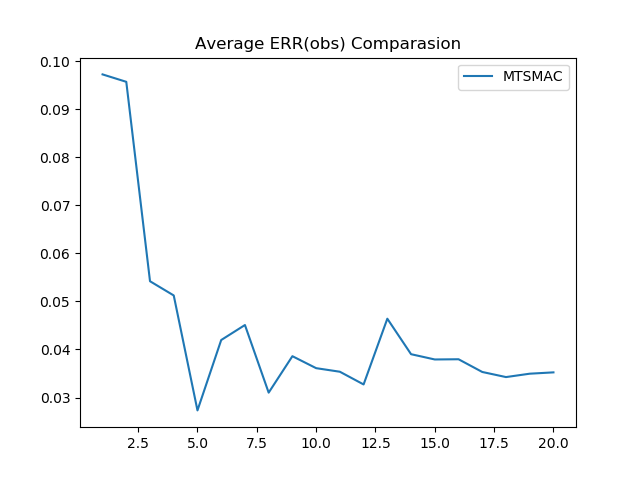
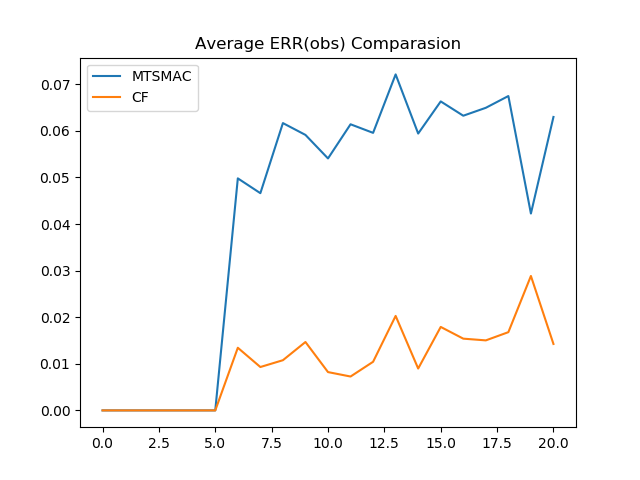
update

diff --git a/examples/experiments/analyse/prediction_comparison.py b/examples/experiments/analyse/prediction_comparison.py
@@ -26,8 +26,12 @@ import matplotlib.pyplot as plt
 
 # pylint:disable=import-error
 from nni.mtsmac_advisor.predictor import Predictor
+from nni.curvefitting_assessor.model_factory import CurveModel
+
 from nni.mtsmac_advisor.test.util import create_fake_data_simple, create_fake_data_mnist, get_obs
 from nni.mtsmac_advisor.test.util import create_fake_data_expdacay, create_fake_data_expdacay_diff_length
+
+
 
 
 PATH = './examples/experiments'
@@ -37,39 +41,117 @@ PATH = './examples/experiments'
 # pylint:disable=invalid-name
 
 
-def plot_prediction_comp():
-    X, y = create_fake_data_mnist()
-
-    len_completed = [21, 21, 21] # size 3
-
-    len_half = [np.random.randint(1, 21) for _ in range(30)]
-    len_y = len_completed + len_half
-
-    size_obs = len(len_y)
-    X_obs, y_obs = get_obs(X, y, size_obs, len_y)
+def get_err_abs_mtsmac(X, y, len_y):
+    ''' predicted err of old points '''
+    X_obs, y_obs = get_obs(X, y, len_y)
 
     predictor = Predictor(multi_task=True)
     predictor.fit(X_obs, y_obs)
-    mean, std = predictor.predict(X)
+    mean, _ = predictor.predict(X)
 
-    # predicted err of old points
     err_abs = [0] * 21
     for t in range(21):
         count_t = 0
-        for j in range(len(len_completed), len(len_y)):
-            if len_y[j] <= t:
+        for j, len_y_j in enumerate(len_y):
+            if len_y_j <= t:
                 err_abs[t] += abs(y[j][t]  - mean[j][t])
                 count_t += 1
         if count_t:
             err_abs[t] /= count_t
-    plt.plot(range(1, 21), err_abs[1:], label='MTSMAC')
+
+    return err_abs
+
+
+def get_err_abs_cf(X, y, len_y):
+    _, y_obs = get_obs(X, y, len_y)
+
+    err_abs = [0] * 21
+    for t in range(21):
+        count_t = 0
+        for j, len_y_j in enumerate(len_y):
+            if len_y_j <= t:
+                print("t:", t)
+                print("y_obs[{}]:\n".format(j), y_obs[j])
+                curvemodel = CurveModel(target_pos=t)
+                predict_y = curvemodel.predict(trial_history=y_obs[j])
+
+                del curvemodel
+                print("predict_y: ", predict_y)
+                err_abs[t] += abs(y[j][t]  - predict_y)
+                count_t += 1
+        if count_t:
+            err_abs[t] /= count_t
+        print("err_abs", err_abs[t])
+
+    return err_abs
+
+def test():
+    '''
+    X, y = create_fake_data_mnist(metric="err_rate")
+    len_y = [21,21,21,6]
+    _, y_obs = get_obs(X, y, len_y)
+    print("y_obs[3]:\n", y_obs[3])
+
+    curvemodel = CurveModel(target_pos=6)
+    predict_y = curvemodel.predict(trial_history=y_obs[3])
+    print("predict_y: ", predict_y)
+    '''
+    for _ in range(10):
+        t = 8
+        y_obs = [0.11349999904632568, 0.09799999743700027, 0.11349999904632568, 0.11349999904632568, 0.10100000351667404, 0.10320000350475311, 0.09740000218153]
+        curvemodel = CurveModel(target_pos=t)
+        predict_y = curvemodel.predict(trial_history=y_obs)
+        del curvemodel
+        print("predict_y: ", predict_y)
+
+
+def plot_prediction_comp():
+    X, y = create_fake_data_mnist(metric="accuracy")
+    len_completed = [21] * 3
+    len_half = [6, 7, 8]
+    # len_half = [np.random.randint(6, 21) for _ in range(20)]
+    len_y = len_completed + len_half
+
+    err_abs_mtsmac = get_err_abs_mtsmac(X, y, len_y)
+    err_abs_cf = get_err_abs_cf(X, y, len_y)
+
+    plt.plot(range(21), err_abs_mtsmac, label='MTSMAC')
+    plt.plot(range(21), err_abs_cf, label='CF')
     plt.title('Average ERR(obs) Comparasion')
     plt.legend()
     plt.savefig('{}/analyse/image/predict_comp.png'.format(PATH))
     plt.close()
 
-def test_CF():
-    pass
 
-test_CF()
-# plot_prediction_comp()
+def test_CF():
+    X, y = create_fake_data_mnist(metric="accuracy")
+
+    len_completed = [21] * 10
+
+    # len_half = [np.random.randint(5, 21) for _ in range(3)]
+    len_half = [10, 13, 15]
+    len_y = len_completed + len_half
+
+    _, y_obs = get_obs(X, y, len_y)
+
+    mean = np.empty(len(len_y), dtype=object)
+    for i in range(len(len_y)):
+        mean[i] = []
+        trial_history = y_obs[i]
+        for pos in range(len(trial_history), 21):
+            curvemodel = CurveModel(target_pos=pos)
+            predict_y = curvemodel.predict(trial_history)
+            mean[i].append(predict_y)
+
+    for i in range(len(len_completed), len(len_y)):
+        plt.plot(range(len(y_obs[i])), y_obs[i], linewidth=5.0)
+        plt.plot(range(len(y_obs[i]), 21), mean[i], label='CF_{}'.format(i))
+        plt.plot(range(21), y[i], label='LC_{}'.format(i))
+    plt.title('True learning curve')
+    plt.legend()
+    plt.savefig('{}/analyse/image/LC.png'.format(PATH))
+    plt.close()
+
+test()
+#test_CF()
+#plot_prediction_comp()

diff --git a/src/sdk/pynni/nni/mtsmac_advisor/test/util.py b/src/sdk/pynni/nni/mtsmac_advisor/test/util.py
@@ -95,11 +95,12 @@ def create_fake_data_expdacay_diff_length(exp_lambda=0.5, asymp=0.5, gaussian_no
     return X, y
 
 
-def create_fake_data_mnist(size_X=100, len_y=21):
+def create_fake_data_mnist(size_X=100, len_y=21, metric="accuracy"):
     '''
     returns
     X: shape (size_X, 5)
     y: shape(size_X,) where element is a list of len_y
+    metric: "accuray" or "err_rate"
     '''
     assert size_X <= 100
     assert len_y <= 21
@@ -117,15 +118,19 @@ def create_fake_data_mnist(size_X=100, len_y=21):
             y[i] = []
             intermediate = trial['intermediate']
             for _, res in enumerate(intermediate):
-                y[i] += [1 - float(res['data'])]
-
+                if metric == 'accuracy':
+                    y[i] += [float(res['data'])]
+                elif metric == 'err_rate':
+                    y[i] += [1 - float(res['data'])]
+                else:
+                    raise ValueError("metric should be 'accuray' or 'err_rate'")
     return X, y
 
 
-def get_obs(X, y, size_obs, len_y):
-    assert size_obs == len(len_y)
+def get_obs(X, y, len_y):
     assert all(ele <= len(y[0]) for ele in len_y)
-
+    
+    size_obs = len(len_y)
     X_obs = X[:size_obs][:]
     y_obs = np.empty(size_obs, dtype=object)
 

diff --git a/examples/experiments/mnist_lr/mnist_lr.py b/examples/experiments/mnist_lr/mnist_lr.py
@@ -130,7 +130,7 @@ def main(params):
                                                     mnist_network.keep_prob: 1 - params['dropout_rate']}
                                          )
 
-            if i % 100 == 0:
+            if (i+1) % 100 == 0 and (i+1) != params['batch_num']:
                 test_acc = mnist_network.accuracy.eval(
                     feed_dict={mnist_network.images: mnist.test.images,
                                mnist_network.labels: mnist.test.labels,
